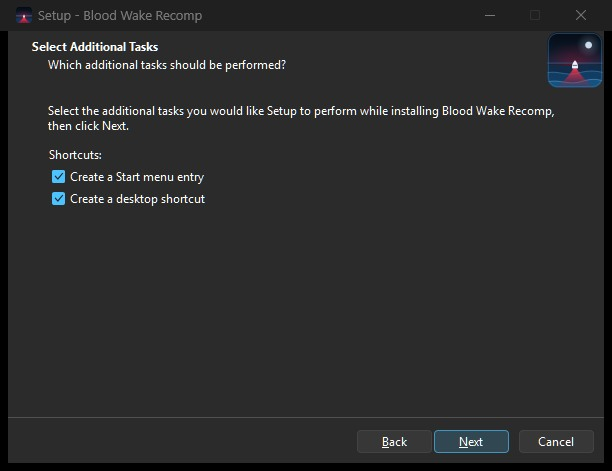
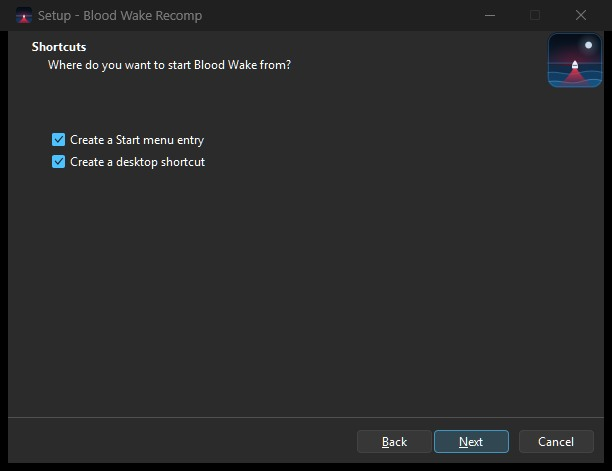
0.2.5: the README for 0.2.5 (what's new, the new launcher and installer pictures, updated numbers)

Changed region(s): [[0.0621, 0.2081, 0.9003, 0.4459], [0.0621, 0.0892, 0.4967, 0.1486]]

diff --git a/README.md b/README.md
@@ -9,10 +9,13 @@
 ![Remastered at 4K: a gunboat at full speed into a low sunset, its wake trailing, the HUD in the corners](docs/images/shot-hero.jpg)
 *Full speed into the sunset. Remastered at 4K with every setting maxed: the original art, nothing redrawn or replaced.*
 
+> [!TIP]
+> **New in 0.2.5, the stable base:** more than 100 fixes and improvements, every one tested. It plays full screen out of the box, with keyboard and mouse or a controller. Remap any key in the launcher, and switch cheats on with a tick. HDR is drawn from your screen's own data, by the ITU's standards, with an optional Automatic HDR. Setup is shorter, and it updates an older install in place, keeping your saves and settings. Start-up, sound and graphics are far harder to break. [Read the release notes](https://github.com/minimalice92/bloodwake-recomp/releases/latest).
+
 > [!NOTE]
 > Unofficial, free and non-commercial. You need your own Blood Wake disc, and nothing from the game is in this repository. See [Staying safe](#staying-safe).
 
-<img src="docs/images/stats.svg" width="600" alt="100%: recompiled, 0 functions failed, the whole game plays. 8,110 functions named. About 3 days from the first plan to the first release. 70+ AI agents. 0 crashes in 948 mission runs of soak tests. 17 bugs from 2001 fixed in Remastered.">
+<img src="docs/images/stats.svg" width="600" alt="100%: recompiled, 0 functions failed, the whole game plays. 8,110 functions named. About 3 days from the first plan to the first release. 80+ AI agents. 0 crashes in 948 mission runs of soak tests. 17 bugs from 2001 fixed in Remastered.">
 
 ## Features and Showcase
 One program, two editions, picked in the launcher.
@@ -30,7 +33,8 @@ The original art and sound, never replaced. Every change has its own switch.
 **Looks**
 - 16:9 and 21:9 widescreen: more of the world, nothing stretched, the HUD in the corners.
 - Native resolution up to 4K, 8x anti-aliasing, 16x texture filtering, longer detail distance.
-- Cleaner textures up close, no banding, sharp text. Optional HDR, ambient occlusion, bloom and an OLED care mode.
+- Cleaner textures up close, no banding, sharp text. Ambient occlusion, bloom and an OLED care mode.
+- **HDR done by the book:** on an HDR screen the picture is mapped from the screen's own data (its EDID), by the ITU's standards, so there are no washed-out greys and nothing to set up. Tick **Automatic HDR** and the launcher switches Windows HDR on while you play and back afterwards. A **Colour** option stretches the colours onto wide-gamut (P3) screens, if you like it vivid.
 
 ![Remastered at 21:9 ultrawide: a temple skyline across the full width, the HUD at the screen's edges](docs/images/shot-ultrawide.jpg)
 *21:9 ultrawide: the whole temple skyline, more of the world at the sides, nothing stretched.*
@@ -53,6 +57,7 @@ The original art and sound, never replaced. Every change has its own switch.
 
 **Sounds**
 - Cleaner pitch changes, a louder mix with a limiter, the game's own surround mix on 5.1 and 7.1, lower latency.
+- Sound that survives: unplug the headphones, switch the output or let the monitor's HDMI audio drop out, and the sound comes back by itself.
 
 **Fixes**
 - 17 bugs from 2001 fixed, each switchable: a mission that could never be won, sounds and radio calls that never played, AI rules that never matched, two textures that never shipped, a dark line on the distant night sea, and more.
@@ -67,7 +72,7 @@ Every setting: [docs/SETTINGS.md](docs/SETTINGS.md). Both editions in full: [doc
 - **Windows 10 or 11, 64-bit**, and a graphics card with DirectX 11.
 - **Your own Blood Wake disc**, copied to your PC as a folder of its files, an Xbox ISO (XISO) or a full disc image. Setup recognises the North American retail release in [`fingerprints/retail.json`](fingerprints/retail.json). Another version, or a modified copy, can be built too, after a plain warning you have to accept.
 - **A few GB of free space** for the build (the game's files alone are about 2 GB).
-- An Xbox-style controller (XInput), or the keyboard.
+- An Xbox-style controller (XInput), or a keyboard and mouse: the keyboard works as controller 1 out of the box, and in Remastered the mouse works in every menu.
 
 The build also uses free tools, which the installer fetches if they're missing, from their official sites only: Python 3.13 with the packages pinned in [`tools/requirements.txt`](tools/requirements.txt), Visual Studio 2022 Build Tools (version 17, C++ workload; 2026 isn't supported yet), CMake 3.20 or later, and the xboxrecomp toolkit at a pinned commit, checked against a pinned hash.
 
@@ -76,13 +81,15 @@ The build also uses free tools, which the installer fetches if they're missing, 
 
 1. Download `BloodWakeRecomp-Setup-<version>.exe` from [Releases](https://github.com/minimalice92/bloodwake-recomp/releases) and run it. It installs for your Windows user only; only the step that installs Microsoft's build tools, if needed, asks for administrator rights.
 2. Accept the disclaimer, confirming you own the game and copied it from your own disc.
-3. Choose your copy of the disc. Setup tells you in plain words whether it recognises the copy. If it doesn't (another region, a modified copy or a damaged one), it explains what that means before you decide to go on.
+3. Choose your copy of the disc. Setup tells you in plain words whether it recognises it. If it doesn't (another region, a modified copy or a damaged one), it explains what that means before you decide to go on.
 4. Pick the install folder (by default `%LOCALAPPDATA%\Programs\Blood Wake Recomp`) and the shortcuts.
-5. Let it build: translating and compiling the game takes about 15 minutes, with a progress bar, and can't be cancelled once it starts. Its last step, "Preparing graphics (one time)", plays a few short scenes hidden and silent (about 2 minutes) so your first game doesn't stutter while its graphics shaders compile.
+5. Let it build: about 15 minutes, with a progress bar, and you can cancel at any point. Its last step, "Preparing graphics", plays a few short scenes hidden and silent (about 2 minutes) so your first game doesn't stutter while its shaders compile.
 6. Play from the Start menu or the desktop shortcut.
 
+**Updating:** run the new installer over your current version, into the same folder. Your saves, settings and prepared graphics are kept.
+
 ![The installer's shortcuts page: a Start menu entry and a desktop shortcut, each with its own box](docs/images/ui-installer-shortcuts.jpg)
-*The installer: a Start menu entry and a desktop shortcut, both ticked; untick either.*
+*The installer (0.2.5): a Start menu entry and a desktop shortcut; untick either.*
 
 To uninstall, use Windows' **Apps** settings: it removes the build and its shortcuts, and keeps your saves and settings unless you choose otherwise.
 
@@ -97,15 +104,18 @@ Then start the launcher from the install folder. Every option, step and exit cod
 
 ### Playing
 ![The launcher's Graphics tab: anti-aliasing, texture filtering, detail distance and the other picture settings, with a Play button](docs/images/ui-launcher-graphics.jpg)
-*The launcher: pick an edition and your settings, then press Play.*
+*The launcher (0.2.5): pick an edition and your settings, then press Play.*
 
-- The launcher has a tab each for Edition, Display, Graphics, Audio, Fixes and Controls. Hover over anything for an explanation.
+- The launcher has a tab each for Edition, Display, Graphics, Audio, Fixes, Controls, Cheats and Advanced. Hover over any setting for a short explanation.
+- **Controls:** remap any key, or a mouse button, with a click and a press; set the keyboard's steering and the sticks' deadzones.
+- **Cheats:** tick the ones you want under one switch.
+- **If something goes wrong:** after two failed starts the launcher offers safe mode, and **Make a bug report** (Advanced tab) puts one zip on your desktop with the log and your settings, nothing from the game.
 
-**Presets (Remastered).** The Edition tab has three presets that set the Display and Graphics tabs in one go. Best Quality is the default. You can still change any setting afterwards; the preset then shows Custom. HDR and OLED care are never changed by a preset.
+**Presets (Remastered).** The Edition tab has three presets that set the Display and Graphics tabs in one go. Best Quality is the default. You can still change any setting afterwards; the preset then shows Custom. Automatic HDR, Colour and OLED care are never changed by a preset.
 - **Best Quality:** a modern game on max settings: every upgrade and extra on (ambient occlusion, bloom and gentle sharpening included), tuned so nothing overlaps.
 - **Balanced and Original:** the original game true to form, looking its best on a modern screen, with none of the extras that change the look.
 - **Best Performance:** for a slower PC: the cheapest settings that keep the essentials (widescreen, a high frame rate, light anti-aliasing), so it still feels like a modern game.
-- Alt+Enter or F11 switches between a window and borderless fullscreen while you play.
+- The game opens borderless full screen; Alt+Enter or F11 switches to a window and back while you play, and Window stays a choice on the Display tab. In Remastered, the main menu's last entry reads Quit Game.
 - Each edition keeps its own saves, under `%LOCALAPPDATA%\xboxrecomp\` (Remastered's in `editions\remastered`). The first time you play Remastered, it starts with a copy of your Original saves. Settings live in `%LOCALAPPDATA%\BloodWake\settings.ini`.
 
 ### Troubleshooting
@@ -126,20 +136,21 @@ Still stuck? Open an issue: say what you did, what you saw, and your Windows ver
 The Xbox runs a PC-style x86 processor, so its program can be translated instead of emulated. The [xboxrecomp](https://github.com/sp00nznet/xboxrecomp) toolkit turns every function of the game into C, and Microsoft's compiler builds that into a Windows program. The toolkit's runtime stands in for the Xbox's system, memory, sound chip and controllers, and this port's Direct3D 11 back end turns the game's own graphics commands into work for your graphics card.
 
 ### Made with AI
-The engineering was done by Claude, Anthropic's AI model: a lead session plus **70+ AI agents** working in batches (naming, file formats, stability, fidelity checks, the remaster, the installer). Each batch had a written brief and a written report, and the lead reviewed and re-verified it before merging. The maintainer set the direction, made the calls and played the game.
+The engineering was done by Claude, Anthropic's AI model: a lead session plus **80+ AI agents** working in batches (naming, file formats, stability, fidelity checks, the remaster, the installer). Each batch had a written brief and a written report, and the lead reviewed and re-verified it before merging. The maintainer set the direction, made the calls and played the game.
 
 - **25 Oct 2026:** the plan in the morning; by night the whole program translated, booting to the menus and playing Battle Mode.
 - **26 Oct:** sound, GPU graphics at full speed, every mission booting, split screen, 948 soak runs without a crash.
 - **27 Oct:** all 8,110 functions named, and Remastered built.
 - **Early 28 Oct:** the installer, this repository and release v0.1.0.
+- **3 Nov:** 0.2.5, the stable base: a one-day run of ten lanes and more than 100 items, each checked by a release gate. Eight release candidates were tested and the bugs found on the way were fixed, every judgement call logged with a one-line undo.
 
 ### Proof, not promises
 - **Original stays exactly as shipped.** Every merge is replayed against the previous build with the same random seed and compared step by step. A build made the public way, from the disc and without the private names file, matches the workshop build for 3,867 of 3,867 steps in each edition.
 - **The translation is deterministic.** Six runs gave six identical sets of generated C, and every player's build is checked against the published fingerprints of it.
 - **The water, rewritten bit for bit.** The functions that build the sea's surface each frame are re-translated at build time into plain native code doing the same operations in the same order. 2,627,309 batches compared with the game's own code: 0 differences. Four-player split screen went from 66 to 113 fps.
-- **Stable.** 0 crashes in 948 mission runs of soak tests; a later soak of every mission, both battles and Blood Ball: 0 crashes, 0 freezes.
+- **Stable.** 0 crashes in 948 mission runs of soak tests; a later soak of every mission, both battles and Blood Ball: 0 crashes, 0 freezes. For 0.2.5: 3 hours of play per edition, both story campaigns to the end, 219 starts in a row, and sound kept through 68 forced audio-device failures, with no crash or freeze.
 - **Played through.** An autopilot won 24 of the 28 story missions, the final one included, with no port problem in about 37 attempts. The other four need skills the autopilot doesn't have yet.
-- **57 toolkit issues found and fixed here.** From 8- and 16-bit multiplies translated as 32-bit ones, to point sprites, fog and polygon offset never drawn, to a 60.00 Hz vertical blank where NTSC runs at 59.94. The fixes are carried in this project (`src/toolkit_patches/`, `tools/xbr_patches.py`), with the toolkit itself untouched at its pinned version. They will be offered to xboxrecomp with neutral repros containing nothing from any game; none has been submitted yet.
+- **69 toolkit issues found and fixed here.** From 8- and 16-bit multiplies translated as 32-bit ones, to point sprites, fog and polygon offset never drawn, to a 60.00 Hz vertical blank where NTSC runs at 59.94. The fixes are carried in this project (`src/toolkit_patches/`, `tools/xbr_patches.py`), with the toolkit itself untouched at its pinned version. They will be offered to xboxrecomp with neutral repros containing nothing from any game; none has been submitted yet.
 - **Every function named: 8,110.** Each name proposed with evidence from the code, and 6,149 re-checked independently (6,109 confirmed as they stood). Ten functions that deal with the console's security were left alone on purpose.
 - **The file formats, decoded.** Models, boats and weapons, missions, effects, fonts, menus, sound and textures: specced, checked against every archive on the disc, then verified blind.
 - **Bugs explained before they're fixed.** Each of the 17 fixes was traced in the code first. The hardest and strangest: a faint dark line on the distant sea at night, where folded waves got the sky reflection blended twice. Remastered now draws it once; Original keeps it, as the console very likely showed it.
